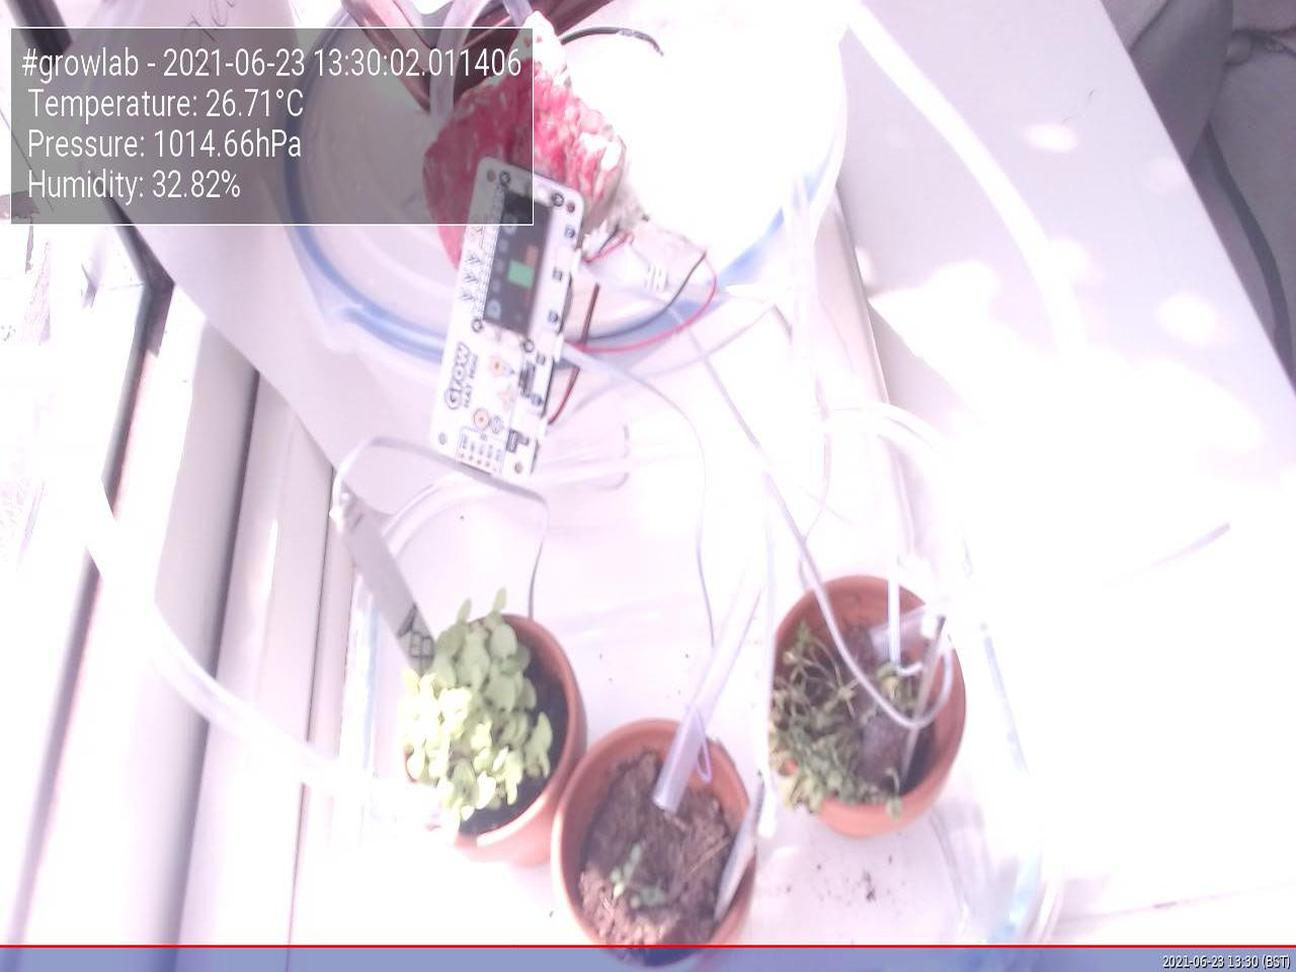
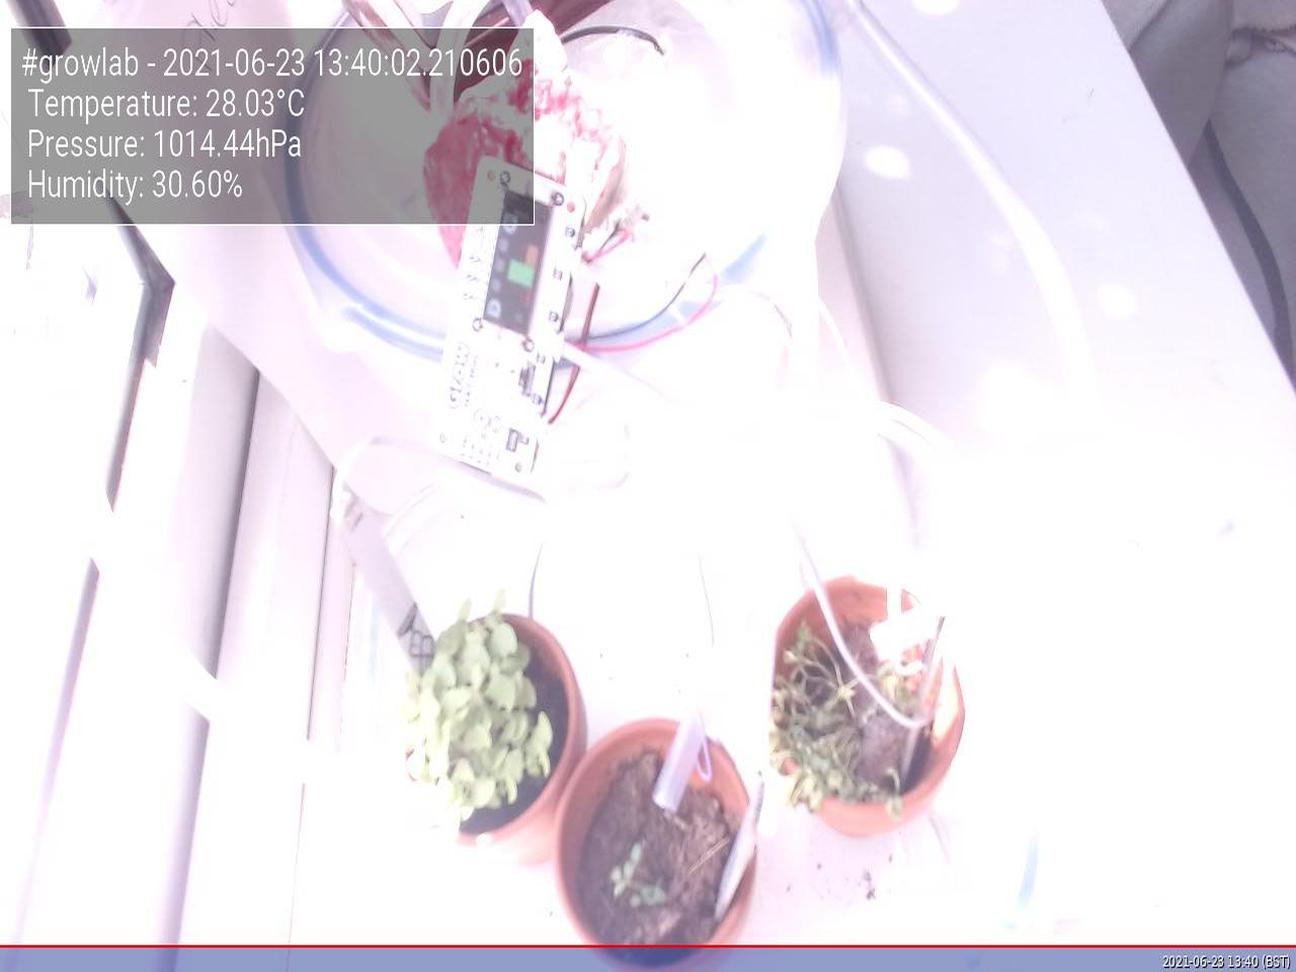
Update images at Wed 23 Jun 13:40:06 BST 2021

diff --git a/app/docs/index.html b/app/docs/index.html
@@ -47,19 +47,19 @@
                         <tbody>
                             <tr>
                                 <td>Time</td>
-                                <td>2021-06-23 13:30:02.011406</td>
+                                <td>2021-06-23 13:40:02.210606</td>
                             </tr>
                             <tr>
                                 <td>Temperature</td>
-                                <td>26.71°C</td>
+                                <td>28.03°C</td>
                             </tr>
                             <tr>
                                 <td>Humidity</td>
-                                <td>32.82%</td>
+                                <td>30.60%</td>
                             </tr>
                             <tr>
                                 <td>Pressure</td>
-                                <td>1014.66hPa</td>
+                                <td>1014.44hPa</td>
                             </tr>
                         </tbody>
                     </table>
@@ -67,7 +67,7 @@
 
                 <h5>Latest image</h5>
                 <div style="width: 85%;">
-                            <img class="figure-img img-fluid rounded" src="./preview.jpg?uid=1624451405.7632987">
+                            <img class="figure-img img-fluid rounded" src="./preview.jpg?uid=1624452005.9703517">
                 </div>
             </div>
         </div>
